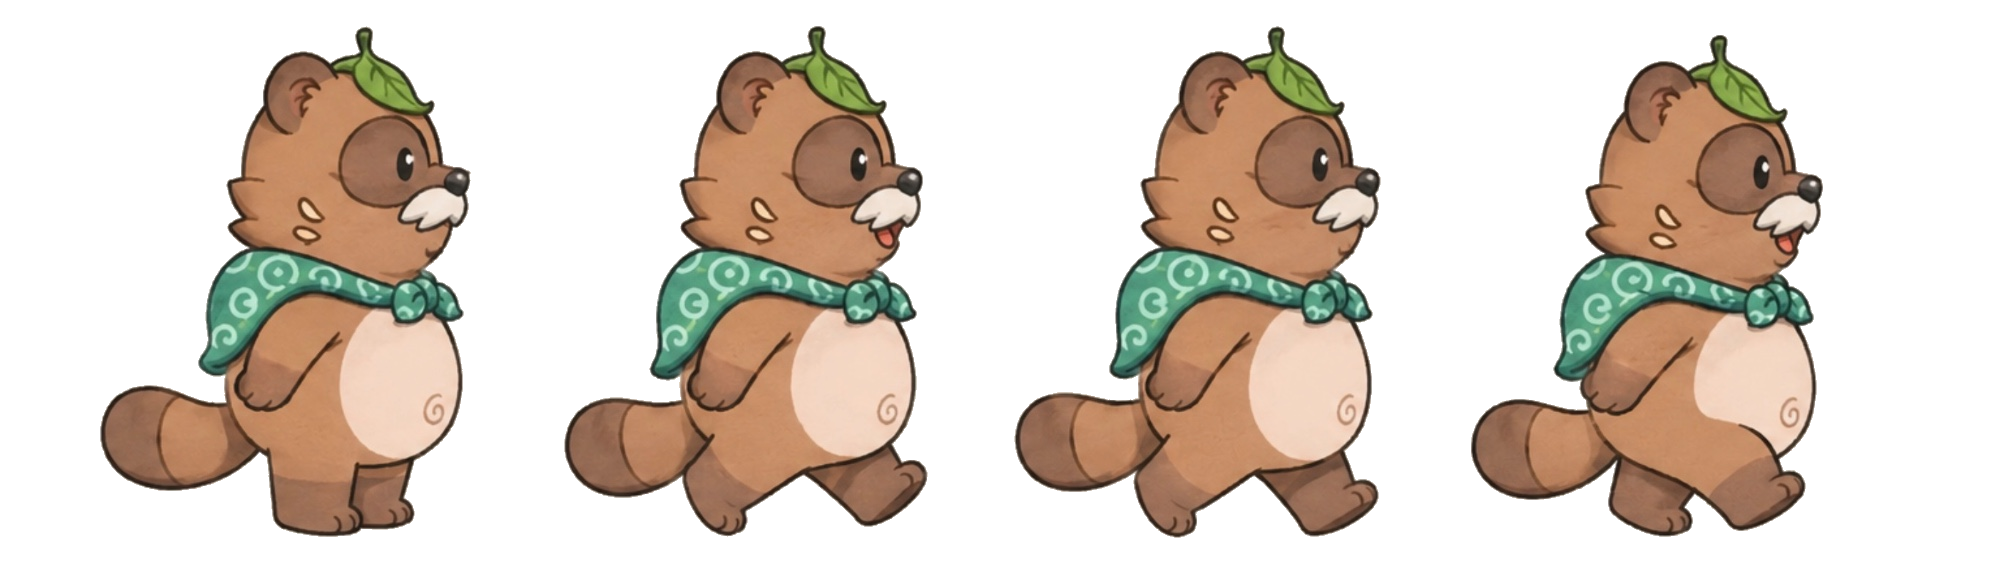
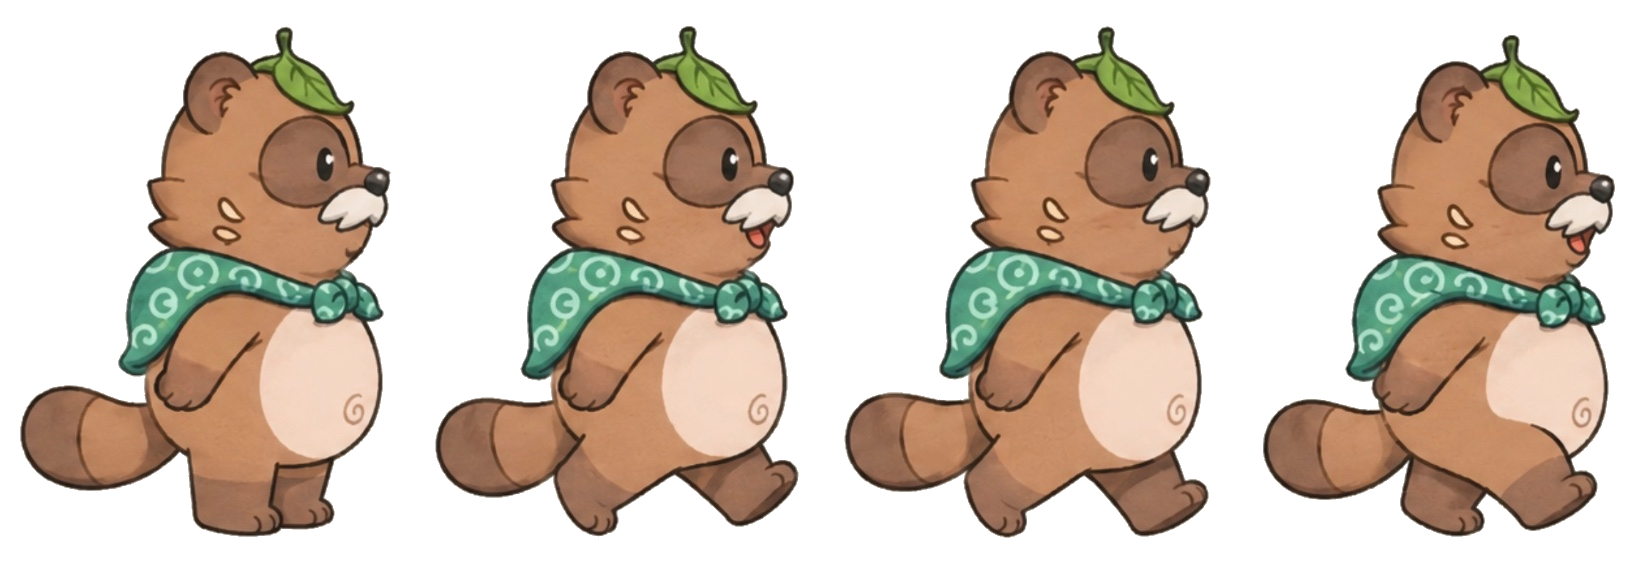
Fix walk sprite (no tail-ahead bleed) + enable movement pad in ramen
- Re-slice the tanuki walk sheet by connected components so each frame holds
  only its own tanuki. Frame 3's tail was crossing the fixed cell boundary into
  frame 2's box and rendering as a detached shape 'ahead' of the walk.
- Anchor every walk frame by its feet/contact centre (baked ax) instead of the
  bounding-box centre, so the body stays planted and the tail trails instead of
  drifting/swinging forward across the cycle.
- Show the movement D-pad on the ramen screen (setMode 'world'), so walking works
  on touch devices there, not just with a keyboard.

Claude-Session: https://claude.ai/code/session_01K8QSim7AsSG45g4EDtHXke

diff --git a/js/render.js b/js/render.js
@@ -140,7 +140,10 @@ Z.render = (function () {
   // on a tainted canvas (opening the game from file://), which used to silently
   // drop the animation. Values were measured once from the art.
   const SHEET_BB = {
-    'sheet.tanuki': { fw: 500, fh: 563, refW: 486, refH: 512, bb: { '0,0': { x: 100, y: 26, w: 371, h: 511 }, '1,0': { x: 564, y: 26, w: 364, h: 511 }, '2,0': { x: 1014, y: 26, w: 486, h: 512 }, '3,0': { x: 1500, y: 35, w: 323, h: 502 } } },
+    // ax = feet/contact centre (absolute source x) so every walk frame anchors to
+    // the SAME body axis; without it the poses drift left in their cells and the
+    // tail appears to swing in front of the tanuki.
+    'sheet.tanuki': { fw: 411, fh: 563, refW: 367, refH: 512, bb: { '0,0': { x: 20, y: 26, w: 371, h: 511, ax: 220 }, '1,0': { x: 435, y: 26, w: 364, h: 511, ax: 631 }, '2,0': { x: 844, y: 26, w: 367, h: 512, ax: 1051 }, '3,0': { x: 1263, y: 35, w: 352, h: 502, ax: 1451 } } },
     'sheet.kappa': { fw: 384, fh: 512, refW: 278, refH: 426, bb: { '0,0': { x: 106, y: 76, w: 251, h: 419 }, '1,0': { x: 465, y: 78, w: 243, h: 419 }, '2,0': { x: 787, y: 73, w: 278, h: 426 }, '3,0': { x: 1168, y: 75, w: 274, h: 419 }, '0,1': { x: 87, y: 542, w: 278, h: 403 }, '1,1': { x: 433, y: 543, w: 308, h: 395 }, '2,1': { x: 826, y: 539, w: 326, h: 403 }, '3,1': { x: 1152, y: 542, w: 300, h: 403 } } },
     'sheet.glide': { fw: 629, fh: 512, refW: 436, refH: 500, bb: { '0,0': { x: 97, y: 6, w: 436, h: 500 }, '1,0': { x: 635, y: 29, w: 617, h: 455 }, '2,0': { x: 1335, y: 49, w: 475, h: 415 } } },
   };
@@ -207,6 +210,9 @@ Z.render = (function () {
     c2.globalCompositeOperation = 'source-in'; c2.fillStyle = '#f5ecd7'; c2.fillRect(0, 0, cv2.width, cv2.height);
     c.drawImage(cv2, 0, 0);
     c.drawImage(im, bb.x, bb.y, bb.w, bb.h, pad, pad, dw, dh);
+    // consistent horizontal anchor: feet-centre when baked, else box-centre
+    const ax = (bb.ax != null ? bb.ax : bb.x + bb.w / 2);
+    cv._ax = pad + (ax - bb.x) * k;
     cv._pad = pad; cv._w = dw; cv._h = dh;
     frameCache.set(ck, cv);
     return cv;
@@ -253,7 +259,7 @@ Z.render = (function () {
       const fi = Math.floor((opts.animT || 0) * fps);
       let fr = null; try { fr = getSheetFrame(key, opts.anim, fi, w); } catch (e) { fr = null; }
       // anchor the trimmed frame by its OWN width/height so feet sit on groundY
-      if (fr) { ctx.drawImage(fr, -fr._w / 2 - fr._pad, -fr._h - fr._pad); drawn = true; }
+      if (fr) { ctx.drawImage(fr, -(fr._ax != null ? fr._ax : fr._w / 2 + fr._pad), -fr._h - fr._pad); drawn = true; }
     }
     if (!drawn) {
       let cut = null; try { cut = getCutout(key, w); } catch (e) { cut = null; }

diff --git a/js/ui.js b/js/ui.js
@@ -18,7 +18,7 @@ Z.ui = (function () {
     screenEl(name).classList.add('active');
     transition(name);
     // controller mode
-    if (Z.controls) Z.controls.setMode((name === 'world' || name === 'shop' || name === 'house' || name === 'cave') ? 'world' : name === 'battle' ? 'battle' : 'none');
+    if (Z.controls) Z.controls.setMode((name === 'world' || name === 'shop' || name === 'house' || name === 'cave' || name === 'ramen') ? 'world' : name === 'battle' ? 'battle' : 'none');
     if (Z.audio) Z.audio.setMode(name === 'battle' ? 'combat' : 'menu');
     (enterHooks[name] || []).forEach((fn) => { try { fn(); } catch (e) { console.error(e); } });
     updateWallet();
